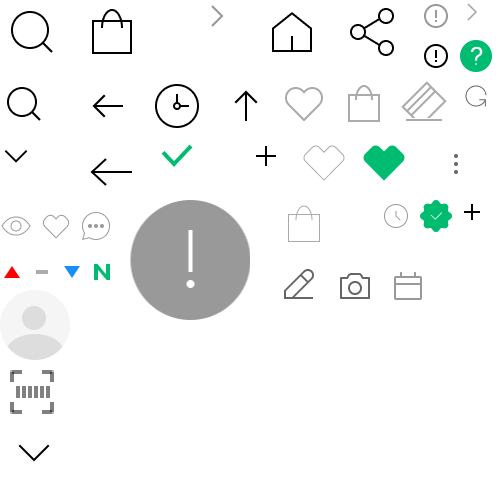
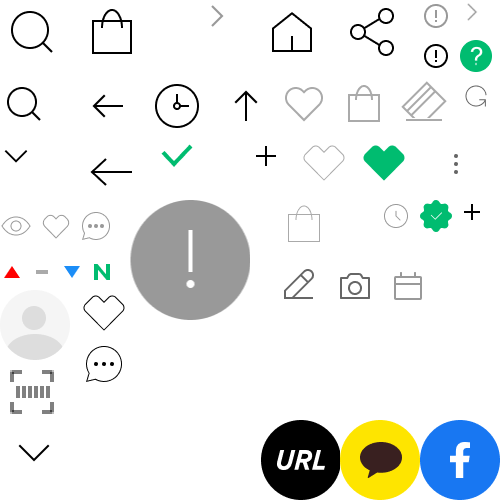
MO - 포미 중간 커밋

diff --git a/pages/publish/IN_MO_HOM_01_09.vue b/pages/publish/IN_MO_HOM_01_09.vue
@@ -18,6 +18,12 @@
       </a>
     </div>
   </div>
+
+  <div class="postFixedArea">
+    <button class="btn_like" title="좋아요" @click="setFilter">32</button>
+    <button class="btn_reply" title="답글" @click="console.log('답글모달열림')">120</button>
+  </div>
+
   <div class="post_detail">
     <!-- 개발 시 아래 div 삭제 -->
     <div style="width: 100%; padding:5rem 0; background-color:#ccc; text-align:center; color:#fff;">포스트 내용</div>
@@ -47,24 +53,21 @@
       <h2><a href="#답글모달" class="btn_link_arrw">답글 <em>3</em></a></h2>
     </div>
     <!-- 답글 없을 경우 -->
-    <div>
-      등록된 답글이 없습니다.<br>
-      답글을 남겨보세요
+    <div class="no_content">
+      등록된 답글이 없습니다.<br>답글을 남겨보세요
     </div>
     <!-- //답글 없을 경우 -->
 
-    <div class="inner no_lr_pd">
-      <div class="cmnt_list">
-        <ul>
-          <li v-for="(item, idx) in sampleCmnt" :key="idx">
-            <PostComment :item="item" />
-          </li>
-        </ul>
-      </div>
+    <div class="cmnt_list">
+      <ul>
+        <li v-for="(item, idx) in sampleCmnt.slice(0,3)" :key="idx">
+          <PostComment :item="item" />
+        </li>
+      </ul>
     </div>
 
-    <div class="inner">
-      <Inputs _type="text" _placeholder="답글을 남겨보세요" />
+    <div class="inner inner_s">
+      <Inputs _type="text" _placeholder="답글을 남겨보세요" @click="openReplyModal();"/>
     </div>
   </section>
   <!-- //답글 -->
@@ -85,6 +88,7 @@
   </section>
   <!-- //같은 주제 다른 포스트 -->
 
+  <!-- 인기 포스트 -->
   <section>
     <div class="inner">
       <h2><a href="" class="btn_link_arrw"><em>이사배</em> 님의 인기 포스트</a></h2>
@@ -98,16 +102,29 @@
       </ul>
     </div>
   </section>
+  <!-- //인기 포스트 -->
 
+  <!-- 답글 메뉴 -->
   <div id="modal_reply_menu" class="modal_wrap">
     <div class="modal_container">
-      메뉴
+      <ul class="reply_menu">
+        <li><button type="button" class="btn_single_menu">신고하기</button></li>
+        <li><button type="button" class="btn_single_menu">차단하기</button></li>
+        <li><button type="button" class="btn_single_menu">수정하기</button></li>
+        <li><button type="button" class="btn_single_menu">삭제하기</button></li>
+      </ul>
     </div>
     <div class="overlay" @click="modal.close(this);"></div>
   </div>
+  <!-- //답글 메뉴 -->
+
+  <!-- 답글 모달 -->
+  <PostCommentModal />
+  <!-- //답글 모달 -->
 </template>
 
 <script setup>
+import { modal, setFilter } from '~/assets/js/common-ui.js'
 import { sample_goods, sampleCmnt, samplePost } from '/test/data/dummyData'
 import SwiperCore, { Autoplay, Navigation, Pagination, A11y } from "swiper";
 import { Swiper, SwiperSlide } from "swiper/vue";
@@ -117,8 +134,24 @@ import "swiper/components/pagination/pagination.scss";
 SwiperCore.use([Autoplay, Navigation, Pagination, A11y]);
 
 definePageMeta({
-  layout: 'mo-sub'
+  layout: 'mo-product'
 })
+
+onMounted(()=>{
+  //답글 메뉴 외 영역 클릭 시 메뉴 닫힘
+  const body = document.querySelector('body');
+  body.addEventListener('click', (event)=>{
+    const target = event.target;
+    const replyMenuModal = document.getElementById('modal_reply_menu');
+    if (!target.classList.contains('btn_reply_menu') && replyMenuModal.classList.contains('active') && !target.classList.contains('btn_single_menu')){
+      replyMenuModal.classList.remove('active')
+    }
+  });
+})
+
+const openReplyModal = () => {
+  modal.open('modal_comment', 'bottom');
+}
 </script>
 
 <style lang="scss" scoped>
@@ -226,12 +259,20 @@ section {
   .inner {
     padding: 3rem 2.1rem;
 
+    &.inner_s {
+      padding: 2rem 2.1rem;
+    }
+
     &.no_r_pd {
       padding-right: 0;
     }
 
     &.no_lr_pd {
       padding: 3rem 0;
+    }
+
+    &.no_t_pd {
+      padding-top: 0;
     }
   }
 
@@ -315,7 +356,71 @@ section {
   }
 }
 
-.cmnt_list {
+:deep(.no_content) {
+  padding-bottom: 2rem;
+  font-size: 1.3rem !important;
+  font-weight: 400 !important;
+  color: #888;
+  text-align: center;
   border-bottom: 1px solid #f5f5f5;
+}
+
+.reply_menu {
+  border:1px solid #999;
+
+  li {
+    width: 8rem;
+
+    & + li {
+      border-top: 1px solid #999;
+    }
+
+    button {
+      padding: 1.2rem 0;
+      width:100%;
+      font-size: 1.2rem;
+      text-align: center;
+      line-height: 1.6rem;
+      display: block;
+    }
+  }
+}
+
+.postFixedArea {
+  width: 100%;
+  padding: 1.5rem 2.1rem 1.6rem;;
+  gap: 2rem;
+  background-color: #fff;
+  display: flex;
+  position: fixed;
+  left: 0;
+  bottom: 0;
+  z-index:3;
+
+  button {
+    line-height: 1.8rem;
+    color: #333;
+    display: flex;
+    align-items: center;;
+
+    &:before {
+      content: '';
+      margin-right: .5rem;
+      width: 2.4rem;
+      height: 2.4rem;
+      background: url('/assets/mo_images/common/icon_split.png') -4rem -14.5rem / 25rem auto no-repeat;
+      display: inline-block;
+    }
+
+    &.btn_like {
+      &.active:before {
+        background-position: -18rem -7rem;
+      }
+    }
+
+    &.btn_reply:before {
+      background-position: -4rem -17rem;
+    }
+  }
 }
 </style>

diff --git a/components/PostComment.vue b/components/PostComment.vue
@@ -18,18 +18,18 @@
         <button type="button">답글 2개 더보기</button>
       </div>
     </div>
-    <button type="button" class="menu" @click="modal.open('modal_reply_menu', 'layer');modalPositioning();">답글 메뉴</button>
+    <button type="button" class="btn_reply_menu" @click="modal.open('modal_reply_menu', 'layer');modalPositioning();">답글 메뉴</button>
   </div>
 </template>
 <script setup>
-import { sampleCmnt } from '/test/data/dummyData'
 import { modal } from '~/assets/js/common-ui.js'
 const props = defineProps({
   item: {},
 })
 const modalPositioning = () => {
   const top = window.scrollY + event.target.getBoundingClientRect().top;
-  document.getElementById('modal_reply_menu').style.cssText="top:"+top+"px;"
+  const right = window.outerWidth - event.target.getBoundingClientRect().left + 80; //80은 modal_reply_menu의 너비
+  document.getElementById('modal_reply_menu').style.cssText="top:" + top + "px;left:unset;right:" + right + "px;bottom:unset;"
 }
 </script>
 <style lang="scss" scoped>
@@ -42,11 +42,22 @@ const modalPositioning = () => {
   position: relative;
 
   &.reply {
-    padding: 0 2.1rem 0 6.6rem;
-    border-top: 0;
+    margin:0 2.1rem 2rem;
 
-    .menu {
-      top: 0;
+    &:before {
+      content:'';
+      width: .8rem;
+      height: 1.2rem;
+      border-left: 1px solid #ddd;
+      border-bottom: 1px solid #ddd;
+      display: inline-block;
+      position: absolute;
+      left: 0;
+      top: 2.7rem;
+    }
+
+    .btn_reply_menu {
+      right: 0;
     }
   }
 
@@ -113,7 +124,7 @@ const modalPositioning = () => {
     }
   }
 
-  .menu {
+  .btn_reply_menu {
     width: 2.4rem;
     height: 2.4rem;
     font-size: 0;

diff --git a/test/data/dummyData.js b/test/data/dummyData.js
@@ -746,12 +746,23 @@ export const sampleCmnt = [
   {
     photo: ("/_nuxt/public/images/sam/photo_editor_02.png"),
     isEditor: true,
-    name: "Poby****",
+    name: "Pony****",
     time: "10분전",
     cmnt: "에디터 끼리 통한 부분이 있네요!",
     reply: {
       is: true,
       to: 'Leesa****'
+    },
+  },
+  {
+    photo: "",
+    isEditor: false,
+    name: "aaa****",
+    time: "5분전",
+    cmnt: "좋은 정보 감사합니다!!",
+    reply: {
+      is: true,
+      to: 'Pony****'
     },
   },
   {
@@ -763,6 +774,28 @@ export const sampleCmnt = [
     reply: {
       is: false,
       to: ''
+    },
+  },
+  {
+    photo: "",
+    isEditor: false,
+    name: "lcj****",
+    time: "2시간전",
+    cmnt: "좋은 정보 감사합니다!!",
+    reply: {
+      is: false,
+      to: ''
+    },
+  },
+  {
+    photo: "",
+    isEditor: false,
+    name: "lcj****",
+    time: "2시간전",
+    cmnt: "좋은 정보 감사합니다!!",
+    reply: {
+      is: true,
+      to: 'lcj****'
     },
   },
 ]

diff --git a/components/PostCommentModal.vue b/components/PostCommentModal.vue
@@ -1,0 +1,46 @@
+<template>
+  <div id="modal_comment" class="modal_wrap">
+    <div class="modal_container">
+      <div class="modal_header">
+        <button class="btn_close" @click="modal.close(this);">닫기</button>
+        <h2>답글</h2>
+      </div>
+      <div class="modal_content">
+        <div class="cmnt_list">
+          <ul>
+            <li v-for="(item, idx) in sampleCmnt" :key="idx">
+              <PostComment :item="item" />
+            </li>
+          </ul>
+        </div>
+      </div>
+    </div>
+    <div class="overlay" @click="modal.close(this);"></div>
+  </div>
+</template>
+
+<script setup>
+import { sampleCmnt } from '/test/data/dummyData'
+import { modal } from '~/assets/js/common-ui.js'
+</script>
+
+<style lang="scss" scoped>
+:deep(.modal_content) {
+  .btn_close {
+    top: 1.6rem;
+  }
+
+  h2 {
+    font-size: 1.8rem;
+    text-align: center;
+  }
+
+  .cmnt_list {
+    li:first-child {
+      .comment_box {
+        border-top: 0;
+      }
+    }
+  }
+}
+</style>

diff --git a/assets/scss/mobile.scss b/assets/scss/mobile.scss
@@ -229,7 +229,7 @@
 }
 
 /* 일치하는 상품 X */
-.no_content {
+:deep(.no_content) {
   font-size:1.5rem;
   font-weight:600;
   display:flex;

diff --git a/layouts/mo-product.vue b/layouts/mo-product.vue
@@ -5,7 +5,6 @@
             <router-view />
         </div>
         <FooterMo />
-        <Actionbar />
     </div>
 </template>
 
